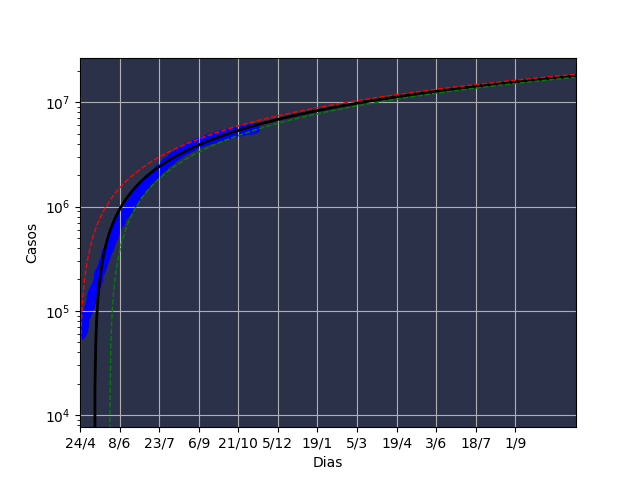
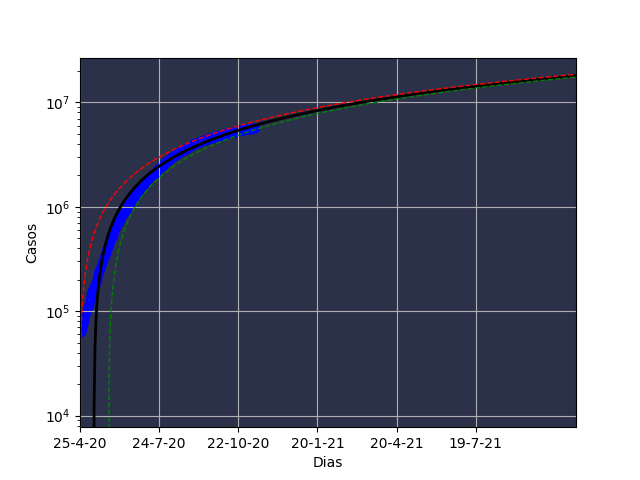
correction archives

diff --git a/apiCov/views.py b/apiCov/views.py
@@ -150,12 +150,12 @@ def prediction(request):
         date_zero = datetime.strptime(ds_countries['Date'][starting_date], '%Y-%m-%dT%H:%M:%SZ')
         date_prev = []
         x_ticks = []
-        step = 45
+        step = 90
         data_curr = date_zero
         x_current = starting_date
         n = int(future_days / step)
         for i in range(0, n):
-            date_prev.append(str(data_curr.day) + "/" + str(data_curr.month))
+            date_prev.append(str(data_curr.day)+"-"+str(data_curr.month)+"-"+ str(data_curr.year)[-2:])
             x_ticks.append(x_current)
             data_curr = data_curr + timedelta(days=step)
             x_current = x_current + step
